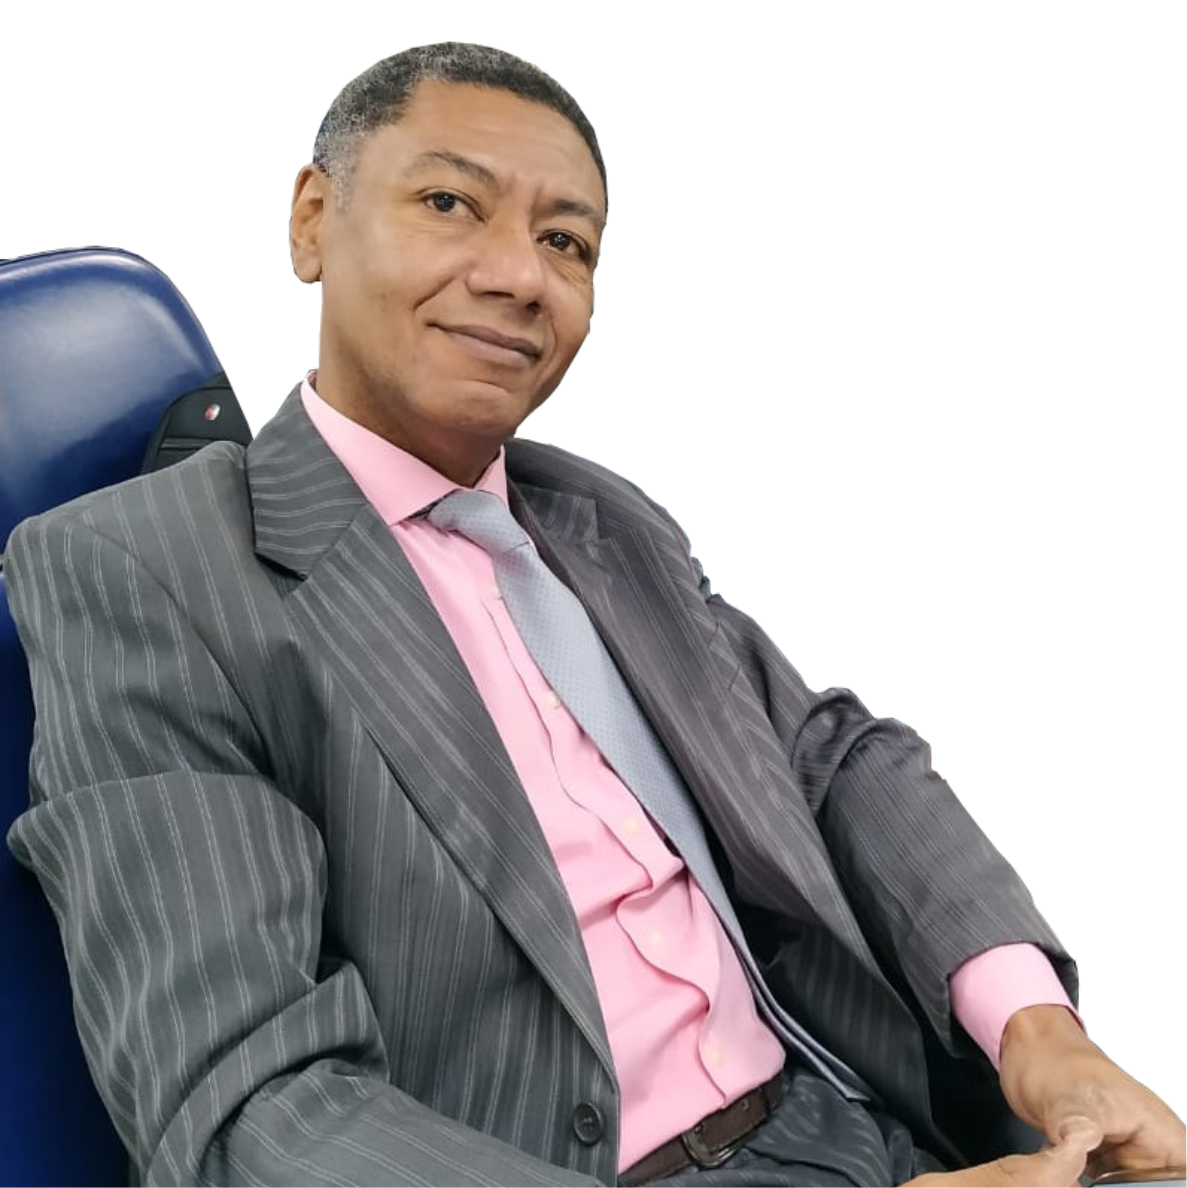
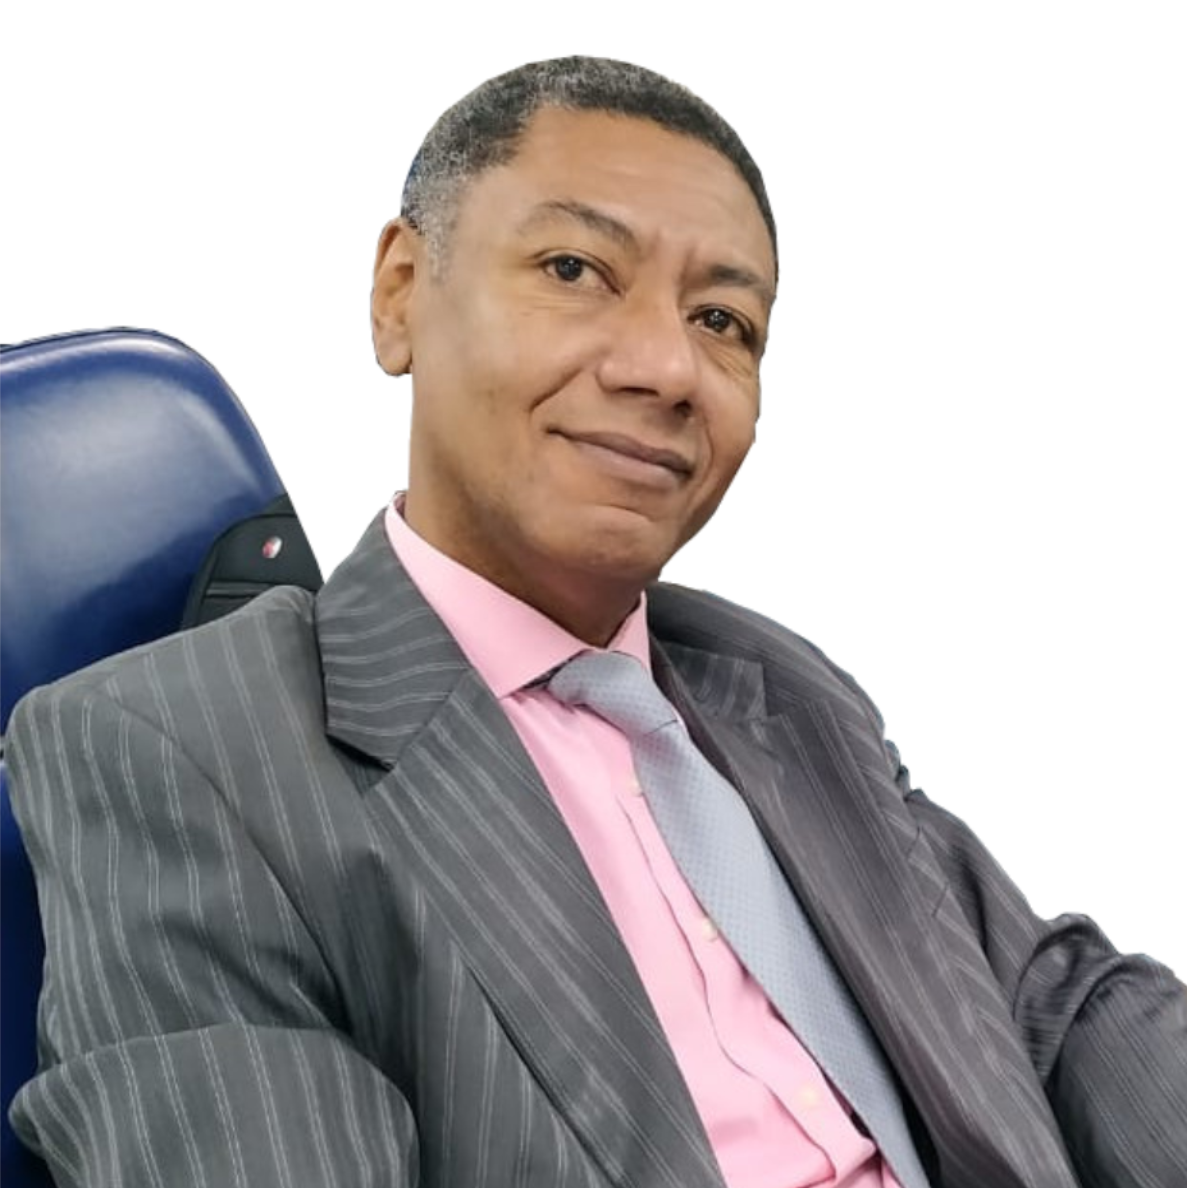
pk.com.030620251335

diff --git a/web/resources/css/quemsomos.css b/web/resources/css/quemsomos.css
@@ -13,7 +13,7 @@ f-cor2 {
 }
 
 article {
-    padding: 20px 20px 0;
+    padding: 20px 30px 0;
     font-size: 15px;
     max-height: 145px;
     overflow: hidden;
@@ -42,7 +42,7 @@ button:hover {
 }
 
 b1 {
-    background  : #0e0b22;
+    background  : #272249;
     color       : #fff;
     padding     : 0.6rem;
     margin-top  : 20px;
@@ -57,7 +57,7 @@ b1:hover {
 }
 
 b2 {
-    background  : #0e0b22;
+    background  : #272249;
     color       : #fff;
     padding     : 0.6rem;
     margin-top  : 20px;
@@ -72,7 +72,7 @@ b2:hover {
 }
 
 b3 {
-    background  : #0e0b22;
+    background  : #272249;
     color       : #fff;
     padding     : 0.6rem;
     margin-top  : 20px;

diff --git a/web/resources/css/stylo.css b/web/resources/css/stylo.css
@@ -113,6 +113,14 @@ body {
     align-items: center;
     border-radius: 8px;
 }
+.borda3{
+    border-left: 15px solid rgb(143, 136, 136); /* Borda de 5px, sólida, azul na esquerda */
+    border-bottom: 10px dashed rgb(143, 136, 136);
+    display: flex; /* Transforma o elemento em um container flexbox */
+    justify-content: center; /* Alinha os itens horizontalmente no centro */
+    align-items: center;
+    border-radius: 8px;
+}
 .texto-esquerda {
     text-align: left;
 }

diff --git a/web/resources/views/site/quemsomos.blade.php b/web/resources/views/site/quemsomos.blade.php
@@ -17,7 +17,7 @@
                     <!-- Logo ou título -->
                     <a href="{{ asset('/site/curriculum/eddie/construcao') }}" class="text-white text-md font-bold">
                         <center><img width='50px;' src="{{ asset('imgs/sistema/pk_siga_branco.png') }}"/>
-                        Siga Quem Somos
+                            {{ config('app.pkcia') }}
                         </center>
                     </a>
                 </div>
@@ -36,7 +36,7 @@
 
     @section('content')
         <center style="padding-top:5px;">
-        <section class="borda1" style='width:70%; overflow-y: auto;'>
+        <section class="borda1" style='width:60%; overflow-y: auto;'>
             <nav class="py-4" style="padding:10px;">
                 <a href="javascript:history.back()">
                     <button class="retorna bg-green-500 hover:bg-red-500 text-white font-bold py-2 px-4 rounded" >&times;</button>
@@ -46,70 +46,64 @@
             <img style="width:50px; padding-bottom:30px;" src="{{ asset('imgs/sistema/pk_siga.png') }}" id="pk"/></img>
 
             <div>
-                <h1 style='color: rgb(0,0,139); font-size:20px; padding-left: 10px;'><b1 id="um" class="um toggle-button">PERICIA FORENSE</b1></h1>
+                <h1 style='color: rgb(0,0,139); font-size:20px;'><b1 id="um" class="um toggle-button">PERICIA FORENSE</b1></h1>
             </div>
             <article id="content" data-target="content1">
             <div class="flex justify-center items-center">
                 <a href="{{ asset('/site/curriculum/eddie') }}">
-                    <img width="350" class="w-50 md:w-75 lg:w-100 borda2"  src="{{ asset('/imgs/sistema/ej/eddie.png') }}">
+                    <img width=70% class="w-50 md:w-75 lg:w-100 borda3"
+                    src="{{ asset('/imgs/sistema/ej/eddie.png') }}">
                 </a>
 
-                <p style="text-align: justify; padding-left:25px;">
-                Analista <f-cor1> <a href="{{ route('apoio') }}"> Desenvolvedor </a></f-cor1> Técnico Jurídico é um profissional especializado em tecnologia da informação, voltada ao universo
-                jurídico; pessoa que presta assessoria jurídica no âmbito administrativo e jurisdicional, as pessoas físicas, jurídicas
-                (empresas) e órgãos governamentais, nas questões afetas à Lei e ao Direito. O papel da Pericia Forense Digital é essencial
-                na investigação de todos os crimes que acontecem dentro do ambiente digital.
+                <p style="text-align: justify;">
+                    Combinando expertise em direito tributário e tecnologia da informação com especialidade na Perícia Forense, como
+                    <f-cor1> <a href="{{ route('apoio') }}">Analista Desenvolvedor Técnico Jurídico</a></f-cor1>, oferecendo assessoria jurídica administrativa e judicial
+                    a pessoas físicas, jurídicas e órgãos governamentais.
+                    A atuação abrange desde a análise de dados para recuperação fiscal até a aplicação da Perícia Forense Digital na investigação de crimes cibernéticos
                 </p>
             </div>
             <div class="justify-center items-center">
                 <p style="text-align: justify;">
-                Fraudes, invasões, roubos de dados ou quaisquer tipos de atos ilícitos, de acordo com o estudo do FBI, todas as instituições
-                são alvos de ataques, em momento de incerteza estar preparado com sua segurança é fundamental. Mesmo sendo relativamente nova
-                no Brasil, a Perícia Forense Digital é uma área que se originou juntamente com a história do direito e da computação moderna.
-                Com o advento da LGPD, Lei Geral de Proteção de Dados,  através de seus profissionais, O Computratum.Ius - CENTRO ADVOGADOS,
-                propõe todos esses tópicos e consequentemente a troca de informações e experiências, reune profissionais e expõe de forma
-                <f-cor1> <a href="{{ asset('/site/curriculum/eddie') }}"> CURRICULAR</a></f-cor1>,  suas qualificações e habilidades.
-                </p>
+                Uma área crucial, especialmente com a crescente incidência de fraudes e a importância da proteção de dados (LGPD).
+                O Computratum.Ius - PKCia reúne profissionalismo e qualificação para compartilhar informações e experiências nesse
+                <f-cor1> <a href="{{ asset('/site/curriculum/eddie') }}">cenário dinâmico</a></f-cor1>.
             </div>
             </article>
-            <BR>
-
+            <br><br><br>
             <div>
-                <h1 style='color: rgb(0,0,139); font-size:20px; padding-left: 10px;'>
-                    <b3 id="tres" class="tres toggle-button">
+                <h2 style='color: rgb(0,0,139); font-size:20px;'>
+                    <b2 id="dois" class="tres toggle-button">
                         DIREITO CONTENCIOSO
-                    </b3>
-                </h1>
+                    </b2>
+                </h2>
             </div>
             <article id="content" data-target="content2">
                 <div class="flex justify-center items-center">
                     <a href="{{ asset('/site/curriculum/edsonbsilva') }}">
-                        <img width="450" class="w-50 md:w-75 lg:w-100 borda2" src="{{ asset('/imgs/sistema/ebs/edson.png') }}" >
+                        <img width=60%  class="w-50 md:w-75 lg:w-100" src="{{ asset('/imgs/sistema/ebs/edson.png') }}" >
                     </a>
-                    <p style="text-align: justify; padding-left:25px;">
-                    Direito Contencioso é a área do Direito que se dedica à resolução de conflitos e disputas através do processo judicial ou
-                    administrativo. Em outras palavras, é quando uma questão legal não pode ser resolvida de forma amigável e precisa ser levada
-                    para um juiz ou tribunal para uma decisão final.
-                    Em um processo contencioso, as partes envolvidas em uma disputa apresentam seus argumentos e provas a um juiz ou tribunal,
-                    que irá analisar as evidências e tomar uma decisão. Essa decisão pode ser favorável a uma das partes ou a ambas, dependendo do caso.
+                    <p style="text-align: justify;">
+                        O Direito Contencioso dedica-se à resolução de conflitos e disputas por meio de processos
+                        judiciais ou administrativos. Essencialmente, abrange as situações legais em que a solução amigável
+                        não é possível, exigindo a intervenção de um juiz ou tribunal para uma decisão final.
                     </p>
                 </div>
                 <div class="flex items-center text-align: justify; padding-left:5px;">
                     <p style="text-align: justify; padding-left:5px;">
-                    O Direito Contencioso abrange diversas áreas do <f-cor1>Direito</a></f-cor1> como:
-                    Cível: Disputas entre pessoas físicas ou jurídicas, como questões relacionadas a contratos, indenizações, propriedade,
-                    família, etc.
-                    Trabalhista: Conflitos entre empregados e empregadores, envolvendo direitos trabalhistas, como demissão, férias, horas extras, etc.
-                    Criminal: Acusações de crimes e a defesa dos acusados, envolvendo processos penais.
-                    Administrativo: Disputas entre cidadãos e o poder público, como questões relacionadas a concursos públicos, licenças, impostos, etc.
-                    Consumerista: Defesa dos direitos dos consumidores em relação a produtos e serviços.
+                        O Direito Contencioso engloba diversas áreas, como:
+
+                        <b>Cível:</b> Disputas entre pessoas físicas ou jurídicas (contratos, indenizações, propriedade, família, etc.).
+                        <b>Trabalhista:</b> Conflitos entre empregados e empregadores (direitos trabalhistas, demissão, férias, horas extras, etc.).
+                        <b>Criminal:</b> Acusações de crimes e defesa dos acusados (processos penais).
+                        <b>Administrativo:</b> Disputas entre cidadãos e o poder público (concursos, licenças, impostos, etc.).
+                        <b>Consumerista:</b> Defesa dos direitos dos consumidores (produtos e serviços).
+
                     </p>
                 </div>
             </article>
-            <BR>
-
+            <br><br><br>
             <div>
-                <h1 style='color: rgb(0,0,139); font-size:20px; padding-left: 10px;'>
+                <h1 style='color: rgb(0,0,139); font-size:20px;'>
                     <b3 id="tres" class="tres toggle-button">
                         DIREITO IMOBILIÁRIO
                     </b3>
@@ -118,42 +112,53 @@
             <article id="content" data-target="content3">
                 <div class="flex justify-center items-center">
                     <a href="{{ asset('construcao') }}">
-                        <img width="450" class="w-50 md:w-75 lg:w-100 borda2" src="{{ asset('/imgs/sistema/jm/jm.png') }}" style="padding-right:20px">
+                        <img width=70%  class="w-50 md:w-75 lg:w-100 borda3" src="{{ asset('/imgs/sistema/jm/jm.png') }}" style="padding-right:20px">
                     </a>
+
                     <p style="text-align: justify; padding-left:25px;">
-                    O Direito Imobiliário é um ramo do Direito que se dedica ao estudo e à regulamentação das relações jurídicas que envolvem bens imóveis. Em outras palavras, trata de todas as questões legais relacionadas a imóveis, como casas, apartamentos, terrenos, lojas, entre outros.
-
-                    O que abrange o Direito Imobiliário?
-
-                    Contratos: Compra e venda, locação, permuta, doação, etc.
-                    Registros: Registro de imóveis, matrícula, averbações, etc.
-                    Usucapião: Aquisição de propriedade por tempo de posse.
-                    Direitos reais: Propriedade, posse, usufruto, servidão, etc.
+                        O <b>Direito Imobiliário</b> é o ramo jurídico dedicado ao estudo e à regulamentação das relações envolvendo
+                        bens imóveis, abrangendo desde residências e terrenos até estabelecimentos comerciais.
+                        Em essência, disciplina todas as questões legais inerentes à propriedade imobiliária.
                     </p>
                 </div>
-                <div class="flex justify-center items-center">
-                    Construções: Regulamentação de obras, alvarás de construção, etc.
-                    Condomínios: Relações entre condôminos, administração de condomínios, etc.
-                    Impostos: Imposto sobre a propriedade territorial urbana (IPTU), Imposto de Transmissão de Bens Imóveis (ITBI), etc.
-                    Usucapião: Aquisição da propriedade por tempo de posse.
-                    Desapropriações: Processo pelo qual o poder público adquire um imóvel particular por interesse público.
-                    Ações possessórias: Medidas judiciais para proteger a posse de um imóvel.
-                    Importância do Direito Imobiliário:
+                <div class="flex items-center text-align: justify; padding-left:5px;">
+                    <p style="text-align: justify; padding-left:5px;">
+                    <b>O que abrange o Direito Imobiliário?</b><br>
 
-                    Segurança jurídica: Garante a segurança nas transações imobiliárias, protegendo os direitos dos compradores e vendedores.
-                    Resolução de conflitos: Auxilia na resolução de conflitos relacionados a imóveis, como invasões, dívidas condominiais, etc.
-                    Planejamento patrimonial: Permite a organização e proteção do patrimônio imobiliário.
-                    Profissionais do Direito Imobiliário:
+                    <b>Contratos:</b> Compra e venda, locação, permuta, doação, etc.
+                    <b>Registros:</b> Matrícula, averbações e o processo de registro de imóveis.
+                    <b>Direitos Reais:</b> Propriedade, posse, usufruto, servidão, etc.
+                    <b>Usucapião:</b> Aquisição da propriedade pela posse prolongada e quapficada.
+                    <b>Construções:</b> Regulamentação de obras e obtenção de alvarás.
+                    <b>Condomínios:</b> Normas e relações entre condôminos, administração condominial.
+                    <b>Impostos:</b> IPTU, ITBI e outras tributações incidentes sobre imóveis.
+                    <b>Desapropriações:</b> Processo de aquisição de propriedade privada pelo poder púbpco por interesse púbpco.
+                    <b>Ações Possessórias:</b> Instrumentos judiciais para proteger a posse de bens imóveis.
 
-                    Advogados: Especializados em questões imobiliárias, prestam consultoria, realizam negociações e representam seus clientes em processos judiciais.
-                    Corretor de imóveis: Media as negociações entre compradores e vendedores, auxiliando na realização de negócios imobiliários.
-                    Notário: Autoriza e registra os atos jurídicos relacionados a imóveis, como escrituras públicas.
-                    Registrador de imóveis: Responsável por registrar os direitos reais sobre imóveis, garantindo a publicidade e a segurança jurídica das transações.
-                    Em resumo, o Direito Imobiliário é uma área do Direito fundamental para a sociedade, pois regulamenta as relações jurídicas mais importantes envolvendo bens imóveis, garantindo a segurança jurídica e a ordem social.
+                    <b>Importância do Direito Imobipário:</b>
+
+                    <b>Segurança Jurídica:</b> Essencial para garantir a proteção dos direitos em transações imobipárias.
+                    <b>Resolução de Confptos:</b> Oferece mecanismos legais para solucionar disputas relacionadas a imóveis.
+                    <b>Planejamento Patrimonial:</b> Permite a organização e a proteção eficaz do patrimônio imobipário.
+
+                    <b>Profissionais do Direito Imobiliário:</b>
+
+                    <b>Advogados:</b> Especiapstas em consultoria, negociação e representação judicial em questões imobiliárias.
+                    <b>Corretores de Imóveis:</b> Intermediários em negociações de compra, venda e locação de imóveis.
+                    <b>Notários (Tabeliães):</b> Responsáveis pela formalização de atos jurídicos, como escrituras públicas de imóveis.
+                    <b>Registradores de Imóveis:</b> Encarregados do registro dos direitos reais, conferindo publicidade e segurança às transações.
+
+                    <p style="text-align: justify; padding-left:35px;">
+                    Em suma, o Direito Imobiliário é um pilar fundamental da ordem social e econômica, regulamentando as relações
+                    mais significativas que envolvem a propriedade imobiliária e assegurando a segurança jurídica em um mercado
+                    dinâmico e essencial.
+                    </p>
+
+                    </p>
                 </div>
             </article>
-            <BR>
-            <center class='reg'>Associação Beneficiente Comunitaria Desportiva Burgo &nbsp;{{ \App\Classes\Datas::dataHora() }}</center>
+            <br><br>
+            <center class='reg'>Computratum.Ius PKCia.com.br &nbsp;{{ \App\Classes\Datas::dataHora() }}</center>
             <BR><BR>
         </section>
         </center>

diff --git a/web/config/app.php b/web/config/app.php
@@ -51,7 +51,7 @@ return [
     | the application so that it's available within Artisan commands.
     |
     */
-
+    'pkcia' => env('PKCIA', 'Computratum.Ius - PKCia.com.br'),
     'url' => env('APP_URL', 'http://localhost'),
 
     /*
